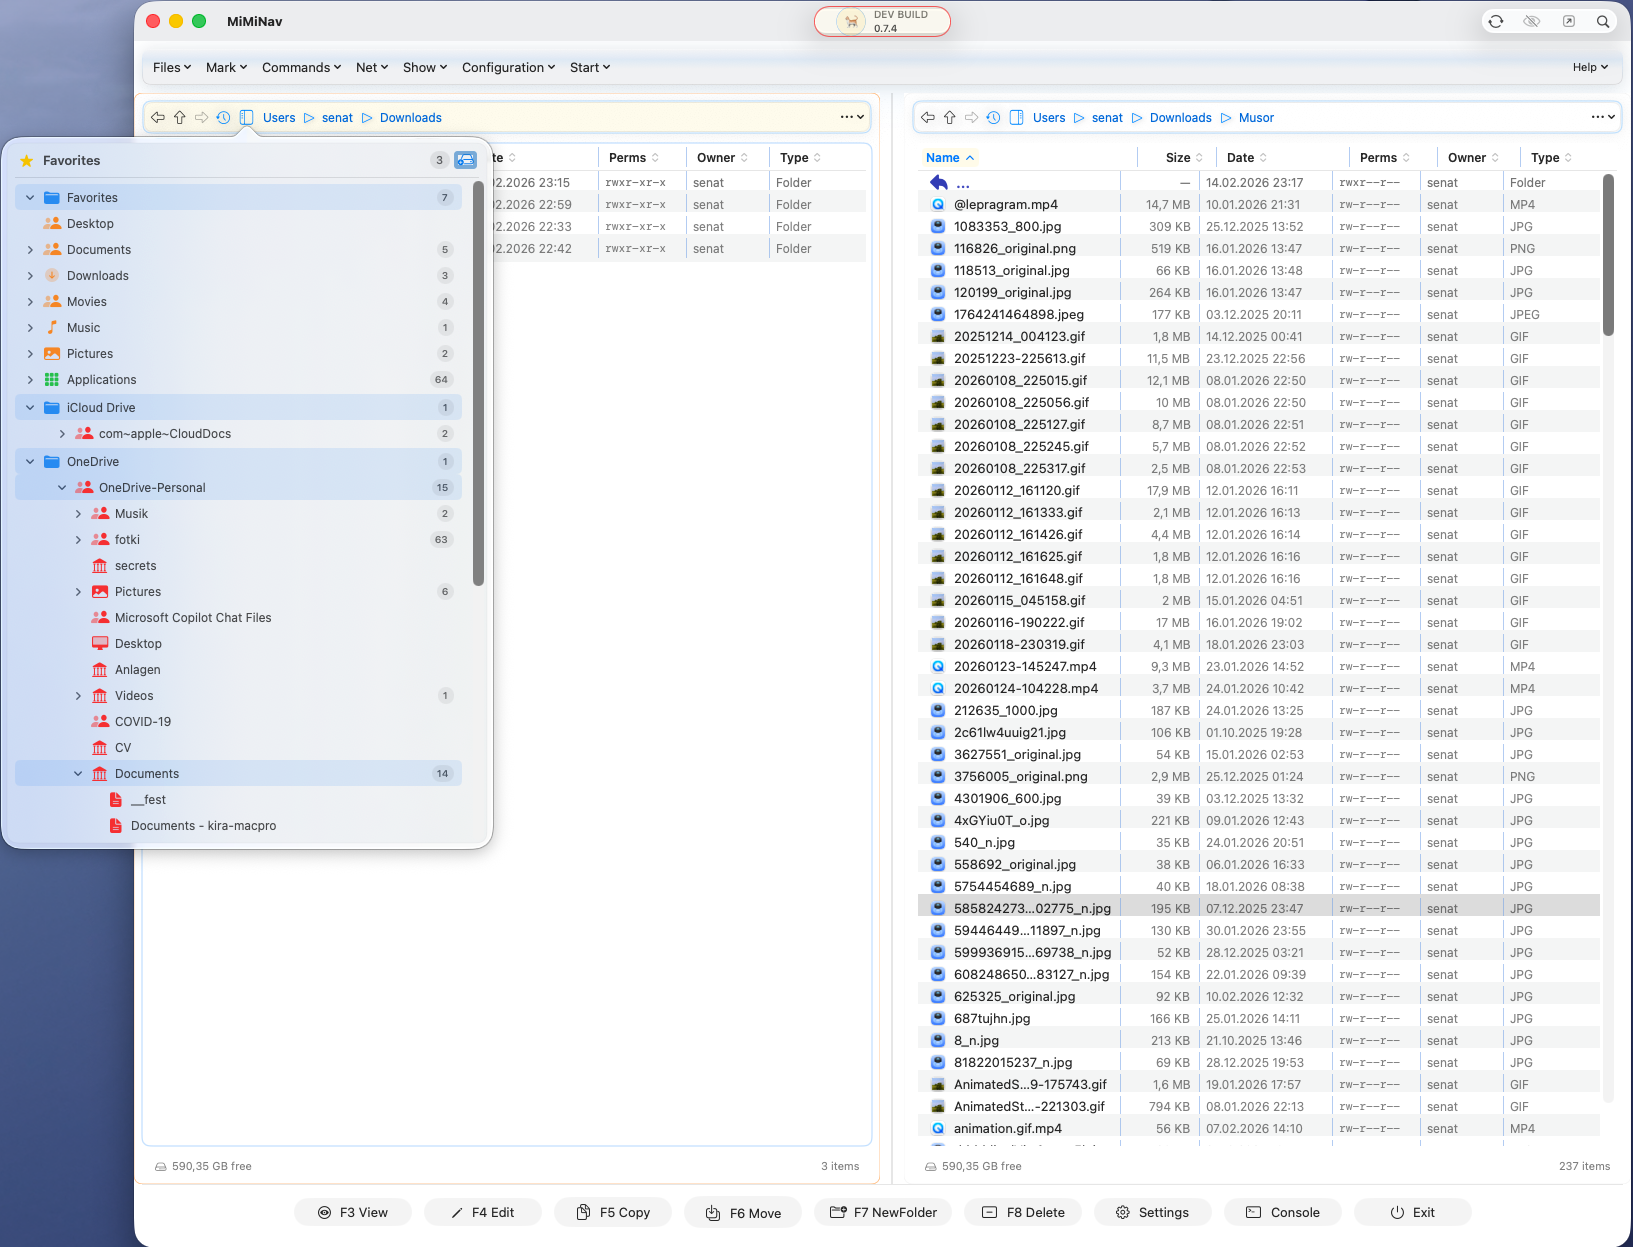
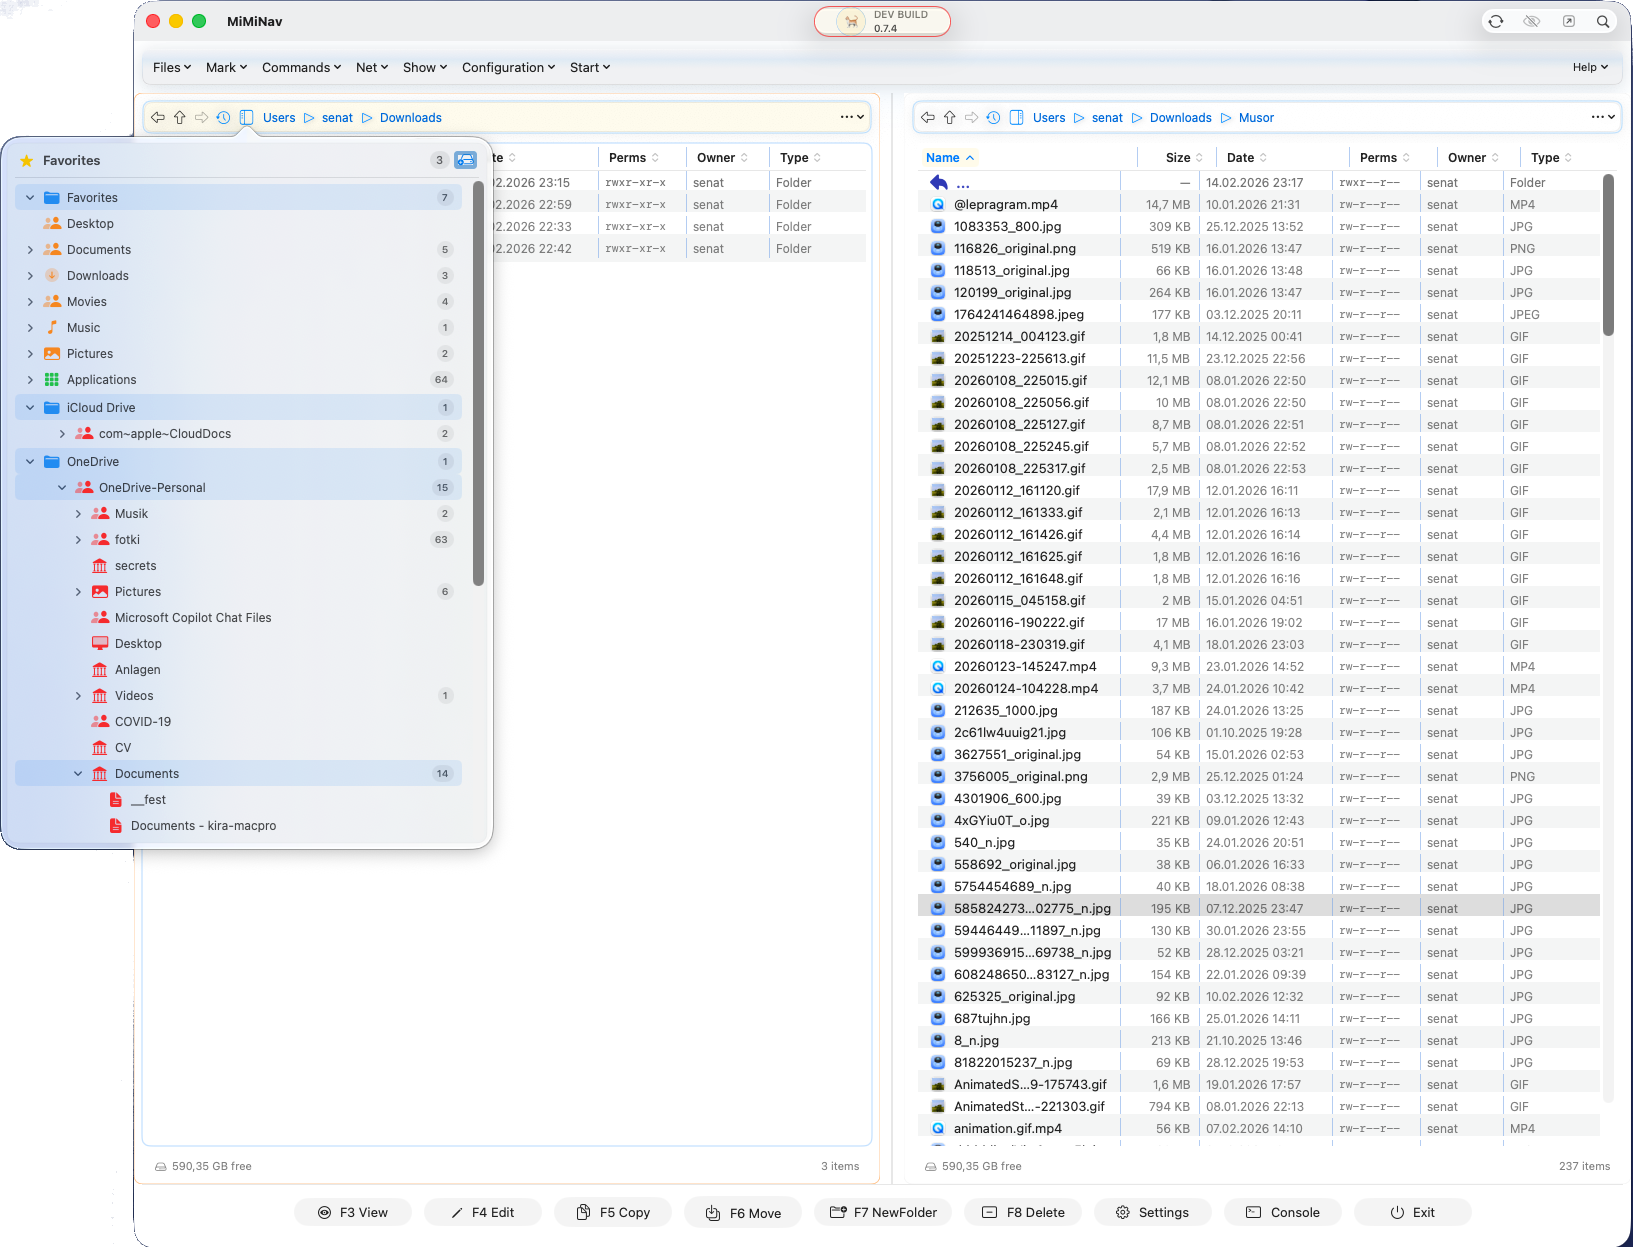
docu refresh

Changed region(s): [[0.0, 0.6704, 0.0937, 1.0], [0.0, 0.0, 0.0937, 0.1219], [0.9994, 0.0, 1.0, 0.0609]]

diff --git a/README.md b/README.md
@@ -52,16 +52,26 @@ MiMiNavigator is a dual-panel file manager inspired by **Total Commander** and *
   </tr>
 </table>
 
+
 <table>
   <tr>
-    <td><img src="GUI/Docs/Preview2.png" alt="File Operations" width="100%"></td>
-    <td><img src="GUI/Docs/Preview1.png" alt="Context Menus" width="100%"></td>
+    <td><img src="GUI/Docs/Preview2.png" alt="Main Interface" width="100%"></td>
   </tr>
   <tr>
-    <td align="center"><em>Drag & drop with confirmation dialog</em></td>
-    <td align="center"><em>Context menus and file operations</em></td>
+    <td align="center"><em>Favorites</em></td>
   </tr>
 </table>
+
+
+<table>
+  <tr>
+    <td><img src="GUI/Docs/Preview1.png" alt="Main Interface" width="100%"></td>
+  </tr>
+  <tr>
+    <td align="center"><em>History</em></td>
+  </tr>
+</table>
+
 
 ---
 
